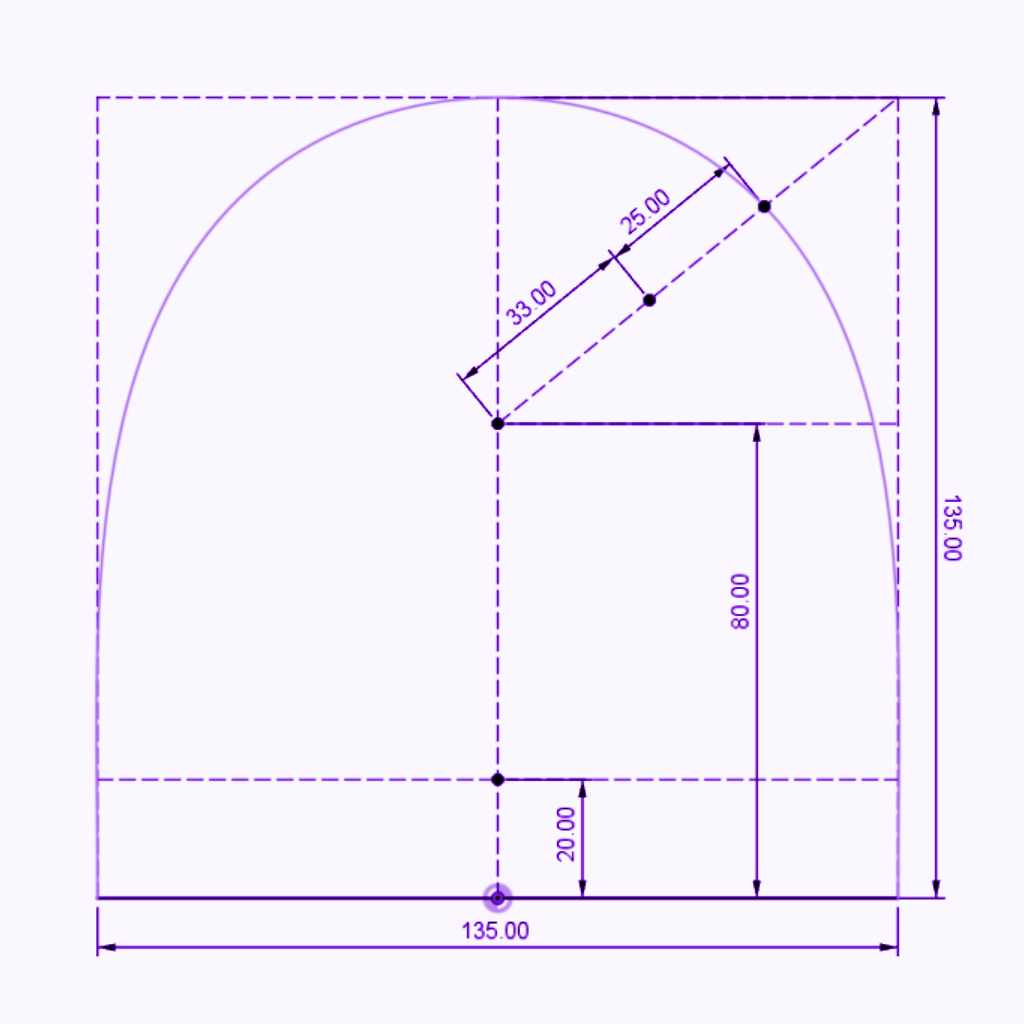
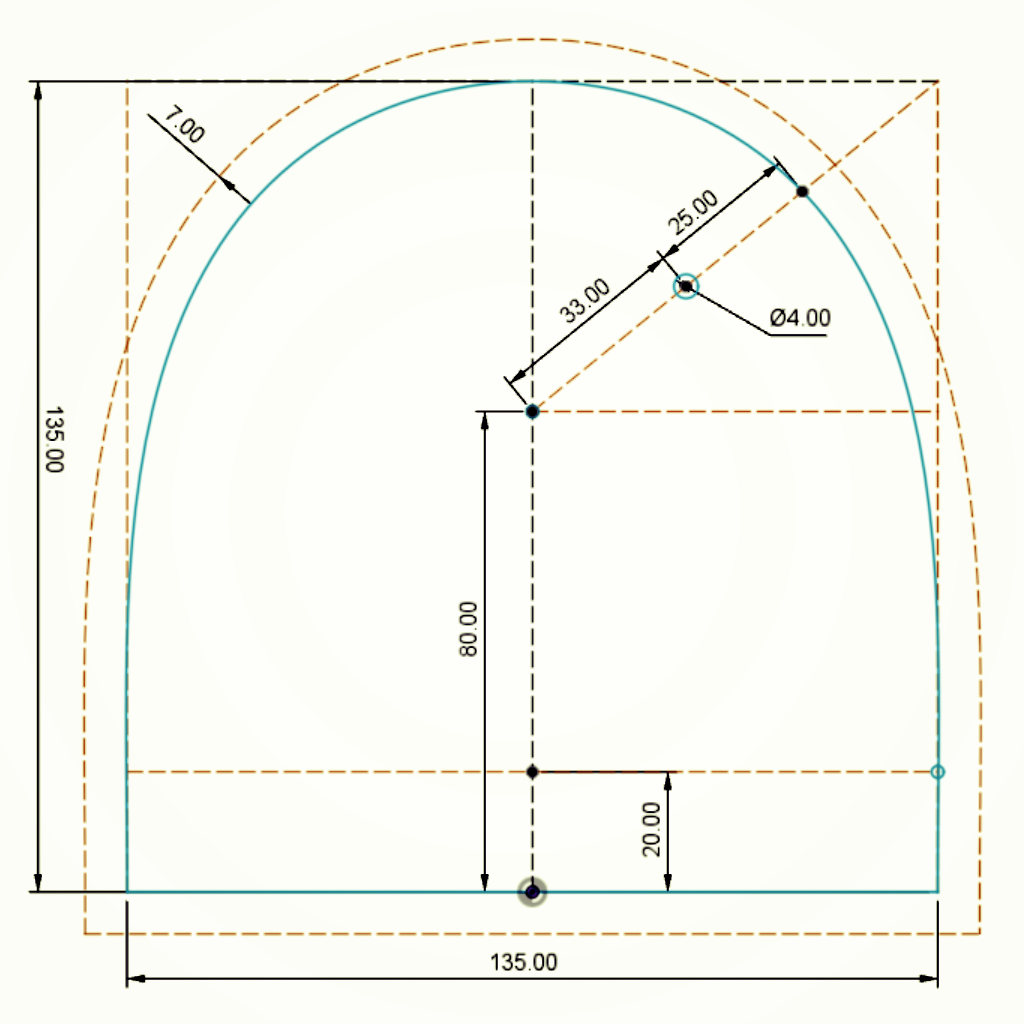
Apparel fine.

Changed region(s): [[0.0312, 0.0312, 0.9688, 0.9688]]

diff --git a/manual/apparel/DE_bakiwi_kit_apparel.html b/manual/apparel/DE_bakiwi_kit_apparel.html
@@ -75,7 +75,7 @@ table {
 <div id="preamble">
 <div class="sectionbody">
 <div class="paragraph">
-<p><em>Anleitungstext und Fotos von Karen Ellenmeyer</em></p>
+<p><em>Anleitungstext, Vorlagen und Fotos von Karen Ellenmeyer</em></p>
 </div>
 <div class="imageblock">
 <div class="content">
@@ -172,17 +172,17 @@ table {
 <h2 id="_schnittschablone_erstellen">Schnittschablone erstellen</h2>
 <div class="sectionbody">
 <div class="paragraph">
-<p>Erstelle Dir eine Schnittschablone indem Du wahlweise die Zeichnung selbst auf Papier bringst, oder die <a href="stencil//cut_stencil.pdf">Vorlage (PDF)</a> auf Papier oder Folie ausdruckst. Wenn Du einen 3D-Drucker hast kannst du auch unsere <a href="stencil/cut_stencil.stl">Schablonenvorlage (STL)</a> 3D-drucken. Beachte die angegebenen Maße sind für Stoffe mit <em>leichter Dehnung</em>.</p>
+<p>Erstelle Dir eine Schnittschablone, indem Du wahlweise die Zeichnung selbst auf Papier bringst oder die <a href="stencil//cut_stencil.pdf">Vorlage (PDF)</a> auf Papier oder Folie ausdruckst. Wenn Du einen 3D-Drucker hast, kannst du auch unsere <a href="stencil/cut_stencil.stl">Schablonenvorlage (STL)</a> 3D-drucken. Die angegebenen Maße sind für Stoffe mit <em>leichter Dehnung</em>.</p>
 </div>
 <div class="admonitionblock important">
 <table>
 <tr>
 <td class="icon">
-<img src="../bakiwi_kit/img/icons/important.png" alt="⚠">
+<img src="../bakiwi_kit/img/icons/important.png" alt="❗">
 </td>
 <td class="content">
 <div class="paragraph">
-<p>Die angegebenen Schnittschablonen sind für Stoffe mit leichter Dehnung dimensioniert. Wenn du sehr feste Stoffe ohne merkliche Dehnung verwenden möchtest empfehlen wir die Schablone umlaufend ca. 7mm größer anzufertigen.</p>
+<p>Die angegebenen Schnittschablonen und Maße sind für Stoffe mit leichter Dehnung dimensioniert (blaue durchgezogene Linie). Wenn du sehr feste Stoffe ohne merkliche Dehnung verwenden möchtest, empfehlen wir, die Schablone umlaufend ca. 7 mm größer anzufertigen (gestrichelte Außenlinie).</p>
 </div>
 </td>
 </tr>
@@ -198,10 +198,10 @@ table {
 <h2 id="_stoff_falten_und_schnitt_anzeichnen">Stoff falten und Schnitt anzeichnen</h2>
 <div class="sectionbody">
 <div class="paragraph">
-<p>Falte den Stoff so, dass die rechten Seiten (Fell) innen liegen und die linken Seiten außen sind. Achte darauf, dass die meiste Dehnung des Materials in Querrichtung ist.</p>
+<p>Falte den Stoff so, dass die rechten Seiten (Fell) innen liegen und die linken Seiten außen sind. Achte darauf, dass die meiste Dehnung des Materials in Querrichtung ist. Wenn Du Fell-ähnliche Stoffe benutzt, achte darauf, dass der Strich nach unten zeigt, d. h. dass es in Richtung Saum glatt gestrichen werden kann.</p>
 </div>
 <div class="paragraph">
-<p>Lege die Schnittschablone auf und zeichne den Schnitt mit Bleistift oder Kreide auf der linken (d.h. inneren) Stoffseite an. Vergiss dabei nicht die Positionen für die Sensoren zu markieren!</p>
+<p>Lege die Schnittschablone auf und zeichne den Schnitt mit Bleistift oder Kreide auf der linken (d. h. inneren) Stoffseite an. Vergiss dabei nicht, die Positionen für die Sensoren zu markieren!</p>
 </div>
 <div class="paragraph">
 <p><span class="image"><img src="./img/01_prepare.jpg" alt="01 prepare" width="49%"></span>
@@ -213,7 +213,7 @@ table {
 <h2 id="_stofflagen_zuschneiden">Stofflagen zuschneiden</h2>
 <div class="sectionbody">
 <div class="paragraph">
-<p>Stecke beide Lagen mit ein paar Nadeln zusammen, damit sich die Stofflagen beim Zuschneiden nicht verschieben. Schneide dann beide Lagen zusammen möglichst genauf auf der Linie aus.</p>
+<p>Stecke beide Lagen mit ein paar Nadeln zusammen, damit sich die Stofflagen beim Zuschneiden nicht verschieben. Schneide dann beide Lagen zusammen möglichst genau auf der Linie aus.</p>
 </div>
 <div class="paragraph">
 <p><span class="image"><img src="./img/03_cut.jpg" alt="03 cut" width="49%"></span>
@@ -228,7 +228,7 @@ table {
 <p>Mit einer Lochzange kannst du jetzt die Löcher für die Sensoren durch beide Stofflagen stanzen. Am besten legst du ein Stück Pappe beim Stanzen mit dazwischen, dann lassen sich die Löcher schön sauber ausstanzen.</p>
 </div>
 <div class="paragraph">
-<p>Sichere nun die die ausgestanzten Öffnungen mit etwas Klebstoff vor dem Ausfransen, ein Allzweckkleber sollte dafür genügen. Nimm eine Nadel oder einen Zahnstocher zur Hilfe um den Kleber dicht um das Loch zu verteilen. Lasse den Kleber ausreichend lange trocknen.</p>
+<p>Sichere nun die ausgestanzten Öffnungen mit etwas Klebstoff vor dem Ausfransen, ein Allzweckkleber sollte dafür genügen. Nimm eine Nadel oder einen Zahnstocher zur Hilfe, um den Kleber vorsichtig im Radius von etwa 3-4 mm um die Löcher herum zu verteilen. Lasse den Kleber ausreichend lange trocknen.</p>
 </div>
 <div class="paragraph">
 <p><span class="image"><img src="./img/05_cut_holes.jpg" alt="05 cut holes" width="49%"></span>
@@ -240,7 +240,7 @@ table {
 <h2 id="_nähen">Nähen</h2>
 <div class="sectionbody">
 <div class="paragraph">
-<p>Nähe jetzt <em>füßchenbreit</em> mit der Nähmaschine um die Schnittkanten herum. Vergiss nicht am Anfang und Ende die Naht zu <em>verriegeln</em>, d.h. nähe hin und zurück, damit Sie nicht aufgehen kann.</p>
+<p>Nähe jetzt <em>füßchenbreit</em> mit der Nähmaschine um die Schnittkanten herum. Vergiss nicht am Anfang und Ende die Naht zu <em>verriegeln</em>, d. h. nähe hin und zurück, damit Sie nicht aufgehen kann.</p>
 </div>
 <div class="paragraph">
 <p><span class="image"><img src="./img/07_sew.jpg" alt="07 sew" width="98%"></span></p>
@@ -251,7 +251,7 @@ table {
 <h2 id="_saum_umlegen_und_befestigen">Saum umlegen und befestigen</h2>
 <div class="sectionbody">
 <div class="paragraph">
-<p>Lege den Saum 2cm um und befestige ihn mit dem <em>Überwendlichstich</em> (d.h. mit doppeltem Faden) von Hand. Alternativ kannst du ihn auch festkleben. Achte aber darauf, nicht zu viel Klebstoff zu verwenden, damit er nicht auf die rechte Seite des Mäntelchens durchschlägt.</p>
+<p>Lege den Saum 2 cm um und befestige ihn mit dem <em>Überwendlichstich</em> (d. h. mit doppeltem Faden) von Hand. Alternativ kannst du ihn auch festkleben. Achte aber darauf, nicht zu viel Klebstoff zu verwenden, damit er nicht auf die rechte Seite des Mäntelchens durchschlägt.</p>
 </div>
 <div class="paragraph">
 <p><span class="image"><img src="./img/08_measure.jpg" alt="08 measure" width="49%"></span>
@@ -281,7 +281,7 @@ table {
 <div id="footer">
 <div id="footer-text">
 Version 0.1<br>
-Last updated 2020-12-21 13:52:06 +0100
+Last updated 2020-12-21 19:04:03 +0100
 </div>
 </div>
 </body>
